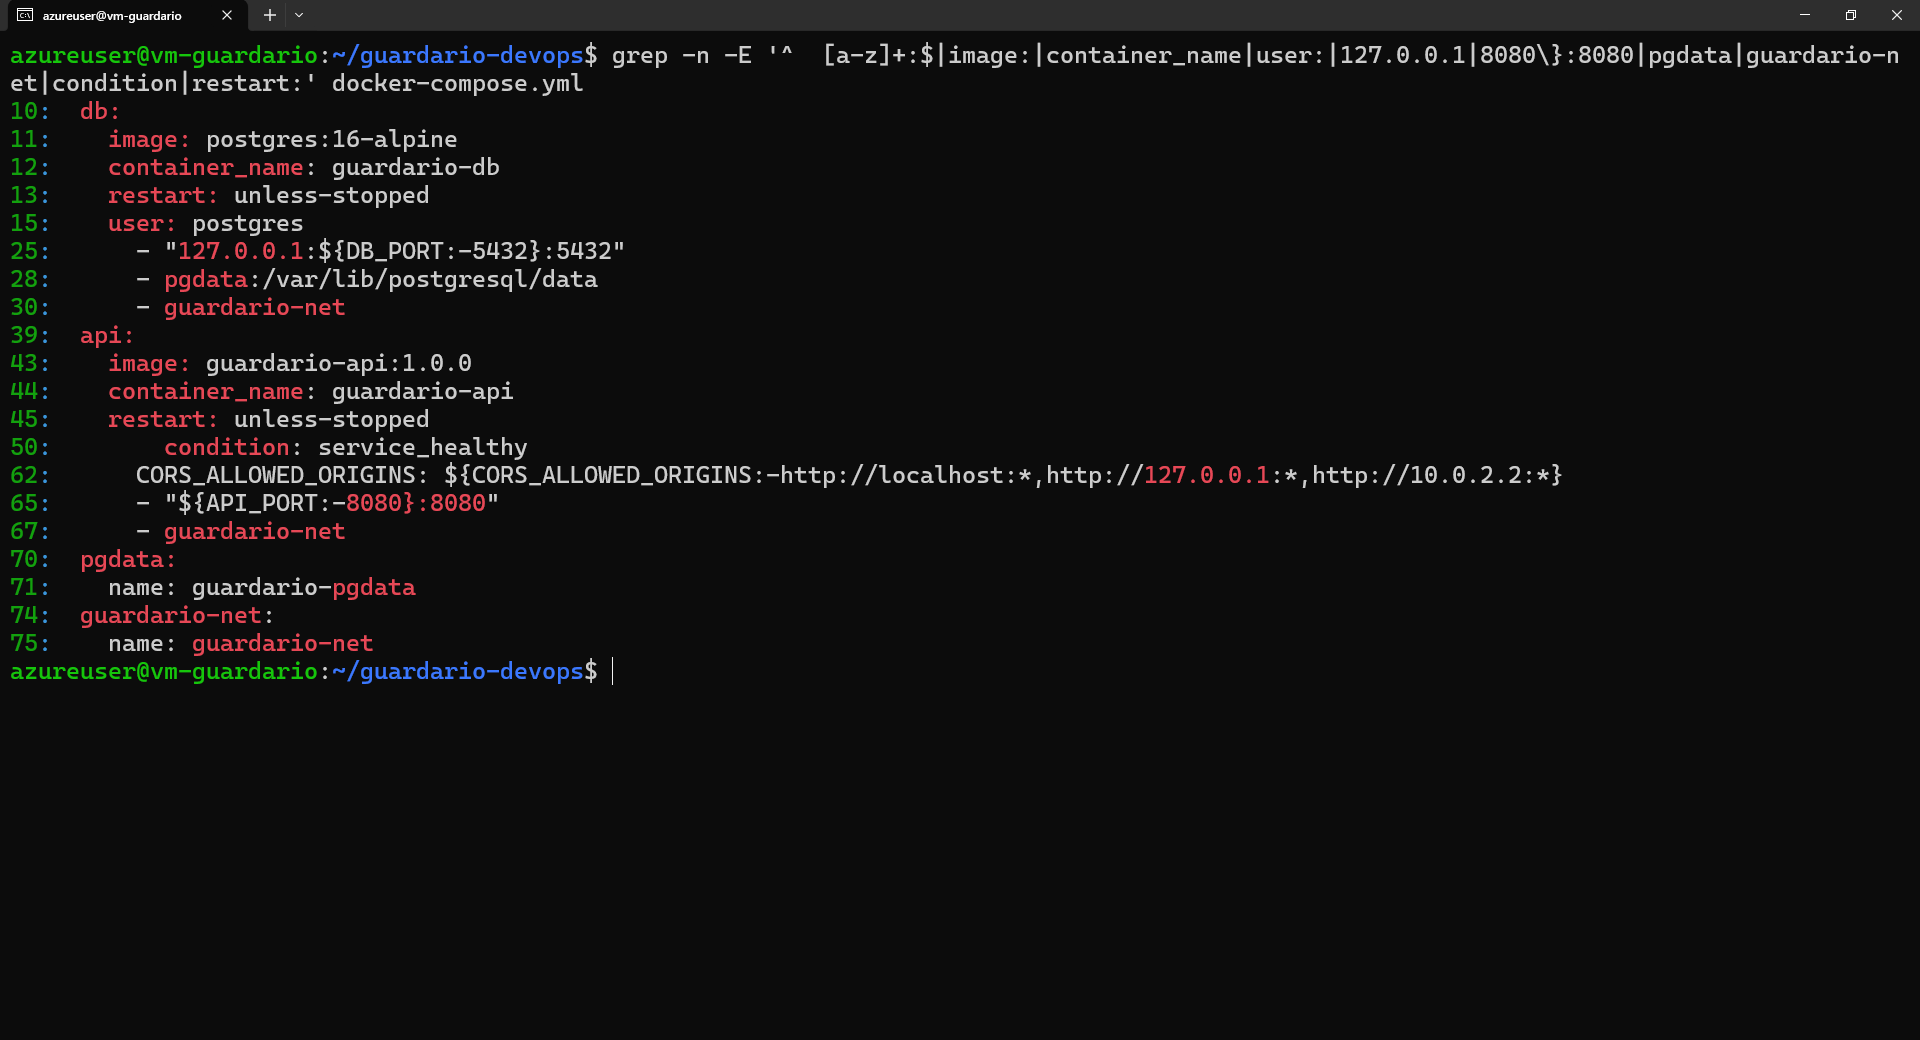
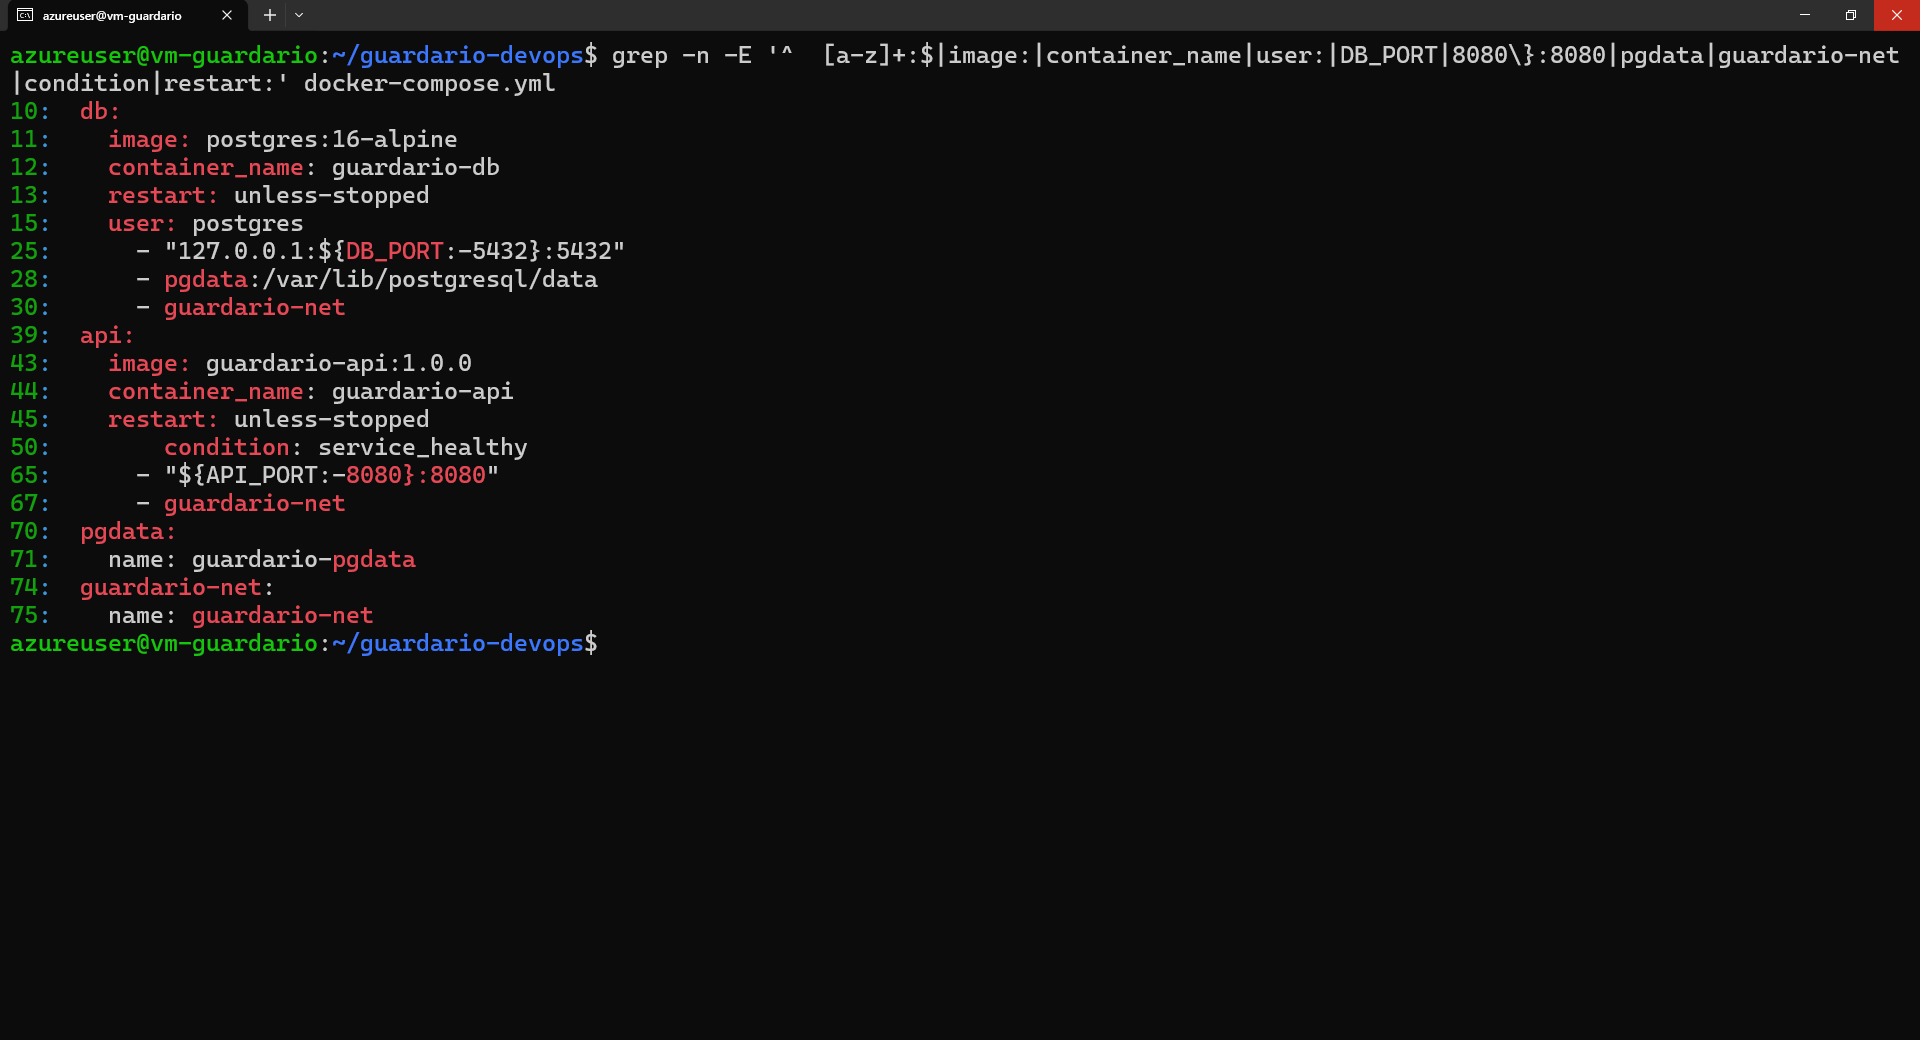
Adiciona link do vídeo e atualiza print 09

diff --git a/README.md b/README.md
@@ -7,7 +7,7 @@ Este repositório coloca a solução GuardaRio na nuvem. A **API Java (Spring Bo
 | | |
 |---|---|
 | Aplicação na VM Azure | http://130.131.61.173:8080/swagger-ui/index.html (depois do vídeo a VM fica desligada, para poupar crédito; para ver ao vivo, peça a um integrante, que religa em cerca de 2 minutos no mesmo IP: veja [Desligar e religar a VM](#desligar-e-religar-a-vm)) |
-| Vídeo da demonstração | **A PREENCHER** (link do YouTube, não listado) |
+| Vídeo da demonstração | [https://www.youtube.com/watch?v=AB3tNsiyhWI](https://www.youtube.com/watch?v=AB3tNsiyhWI) (YouTube, não listado) |
 | Código da API | pasta [`api/`](api/), a mesma API da entrega de Java Advanced ([guardario-api](https://github.com/Raphael-Sinelli/guardario-api)) |
 
 ## Integrantes
